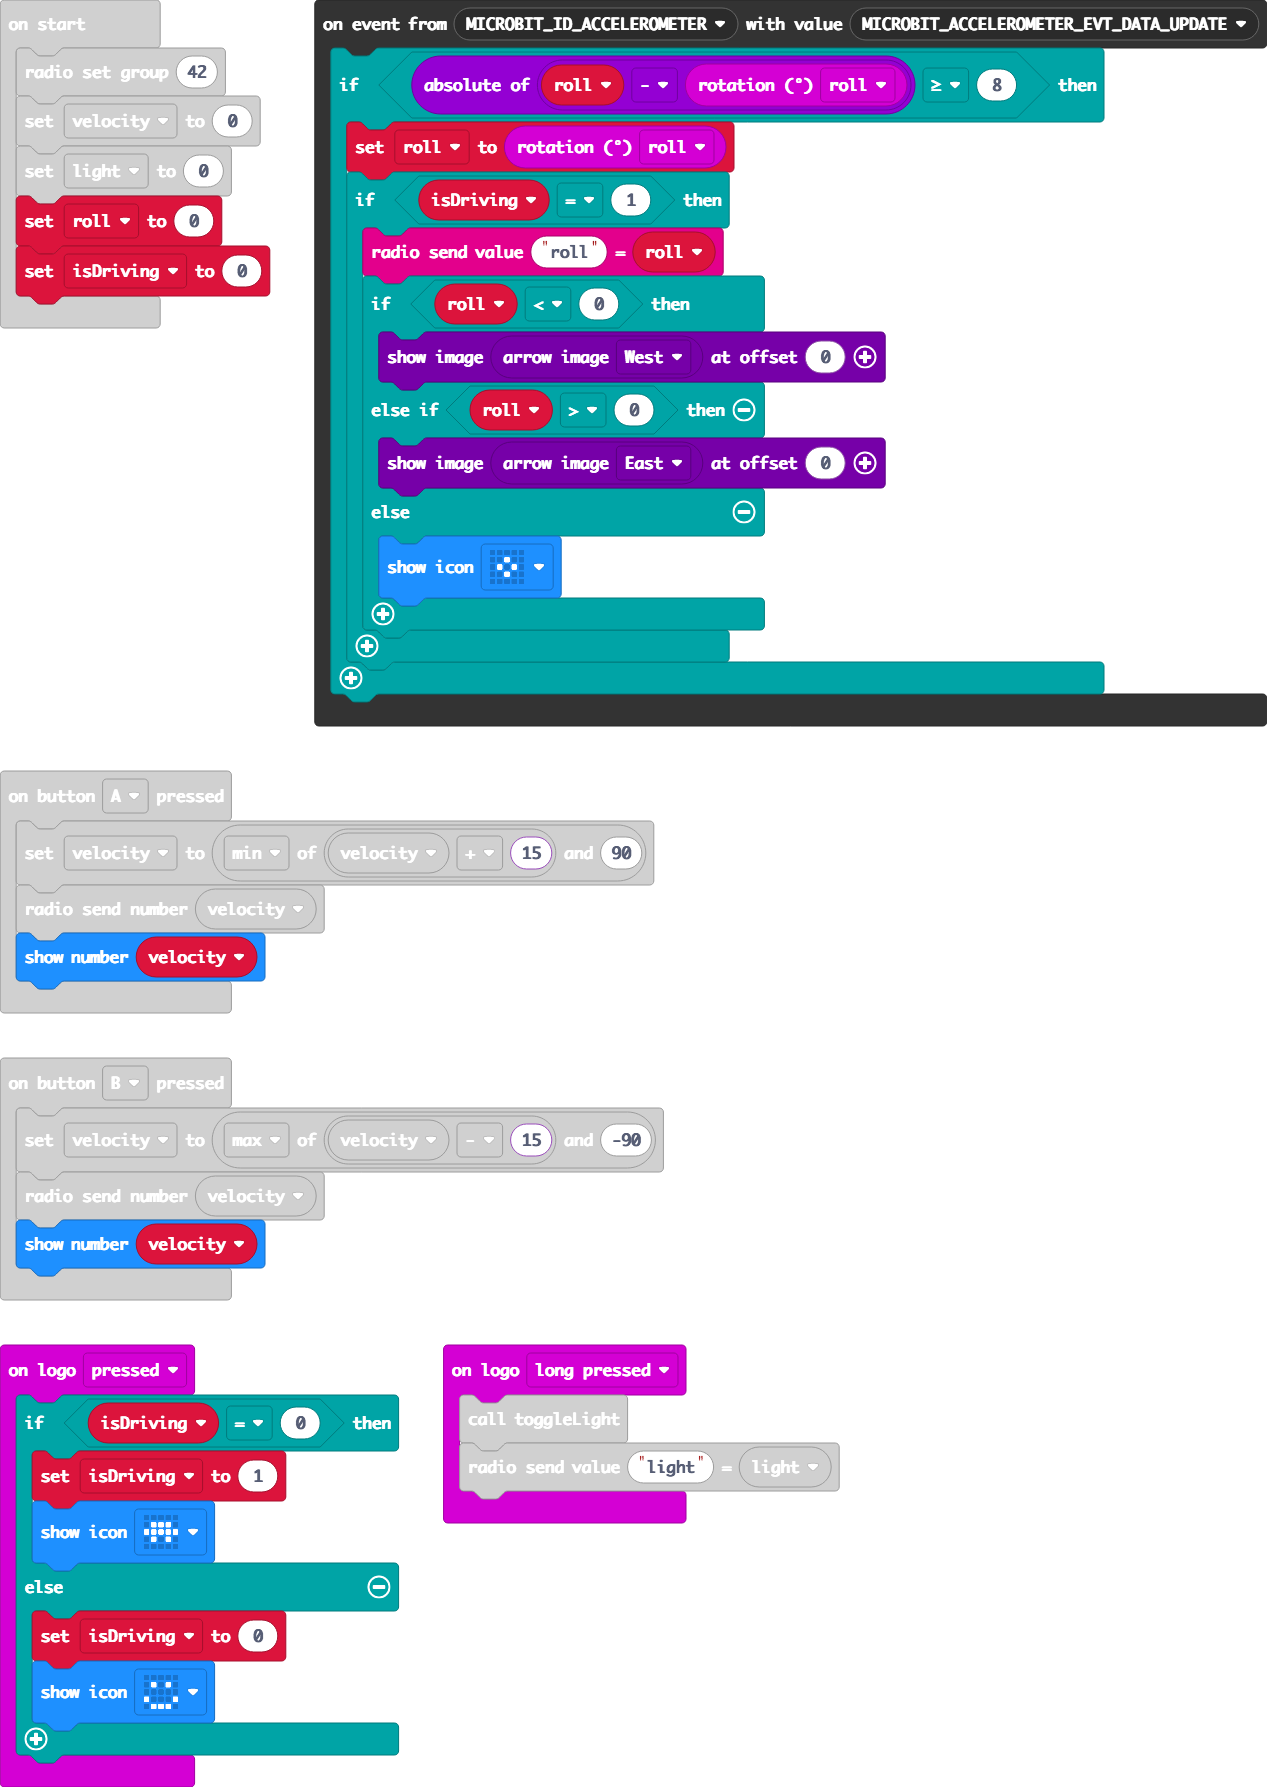
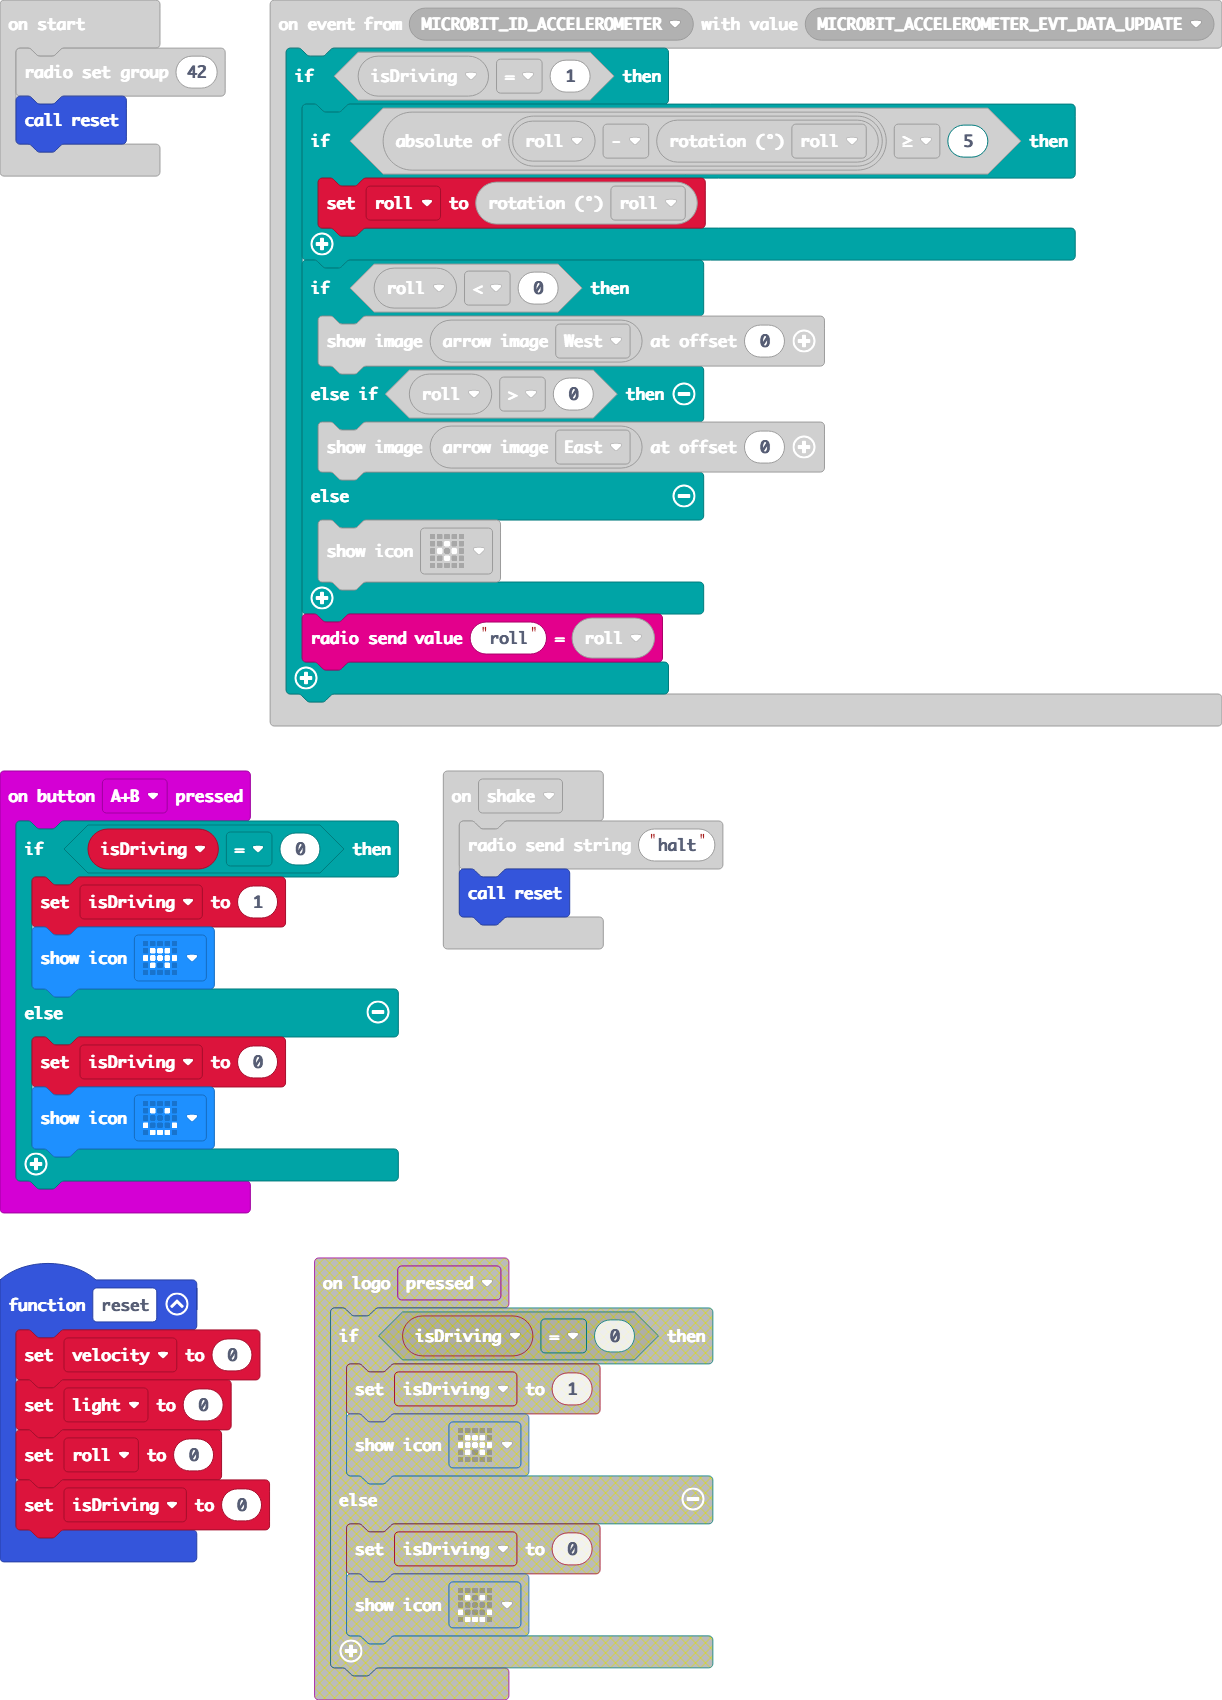
adjust driving mode

diff --git a/main.ts b/main.ts
@@ -15,18 +15,27 @@ input.onButtonPressed(Button.A, function () {
     basic.showNumber(velocity)
 })
 control.onEvent(EventBusSource.MICROBIT_ID_ACCELEROMETER, EventBusValue.MICROBIT_ACCELEROMETER_EVT_DATA_UPDATE, function () {
-    if (Math.abs(roll - input.rotation(Rotation.Roll)) >= 8) {
-        roll = input.rotation(Rotation.Roll)
-        if (isDriving == 1) {
-            radio.sendValue("roll", roll)
-            if (roll < 0) {
-                images.arrowImage(ArrowNames.West).showImage(0)
-            } else if (roll > 0) {
-                images.arrowImage(ArrowNames.East).showImage(0)
-            } else {
-                basic.showIcon(IconNames.SmallDiamond)
-            }
+    if (isDriving == 1) {
+        if (Math.abs(roll - input.rotation(Rotation.Roll)) >= 5) {
+            roll = input.rotation(Rotation.Roll)
         }
+        if (roll < 0) {
+            images.arrowImage(ArrowNames.West).showImage(0)
+        } else if (roll > 0) {
+            images.arrowImage(ArrowNames.East).showImage(0)
+        } else {
+            basic.showIcon(IconNames.SmallDiamond)
+        }
+        radio.sendValue("roll", roll)
+    }
+})
+input.onButtonPressed(Button.AB, function () {
+    if (isDriving == 0) {
+        isDriving = 1
+        basic.showIcon(IconNames.Tortoise)
+    } else {
+        isDriving = 0
+        basic.showIcon(IconNames.Happy)
     }
 })
 input.onButtonPressed(Button.B, function () {
@@ -36,22 +45,17 @@ input.onButtonPressed(Button.B, function () {
 })
 input.onGesture(Gesture.Shake, function () {
     radio.sendString("halt")
+    reset()
 })
-input.onLogoEvent(TouchButtonEvent.Pressed, function () {
-    if (isDriving == 0) {
-        isDriving = 1
-        basic.showIcon(IconNames.Tortoise)
-    } else {
-        isDriving = 0
-        basic.showIcon(IconNames.Happy)
-    }
-})
-let isDriving = 0
+function reset () {
+    velocity = 0
+    light2 = 0
+    roll = 0
+    isDriving = 0
+}
 let roll = 0
-let light2 = 0
+let isDriving = 0
 let velocity = 0
+let light2 = 0
 radio.setGroup(42)
-velocity = 0
-light2 = 0
-roll = 0
-isDriving = 0
+reset()
